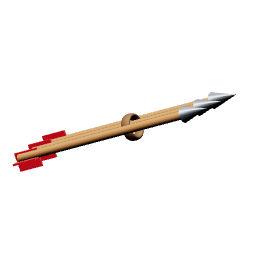
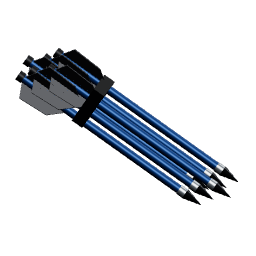
New pictures for herbs, spray, grenades, mines, bolts and explosive arrows
The old leaf stays the editor logo (icons/items/herb_logo.png).

Changed region(s): [[0.0312, 0.1875, 0.9375, 0.8125]]

diff --git a/scripts/icon-render/builders-extra.js b/scripts/icon-render/builders-extra.js
@@ -252,5 +252,129 @@ export function makeExtra(THREE) {
   };
   B.resources_s = bag('#2c3c63', [0x8a4a28, 0x6f3a22, 0xa0603a, 0x4a3024], 11); // blue sack, rusty scrap
   B.resources_l = bag('#7d5a3a', [0xaeb4ba, 0x787f86, 0xc9a24e, 0x55595e], 29); // brown sack, gears and brass
+  // ---------- herbs: bunches of feathery sprigs on thin stems, one bunch per herb of the mix
+  const herbModel = (colors) => () => {
+    const g = new THREE.Group(); let r = 5; const rnd = () => (r = (r * 16807) % 2147483647) / 2147483647;
+    const stemM = M(0x6e5a34, 0, 0.8);
+    const tube = (pts, rad, m, into) => { const c = new THREE.CatmullRomCurve3(pts.map((q) => new THREE.Vector3(...q))); add(into, new THREE.TubeGeometry(c, 24, rad, 7, false), m); return c; };
+    const leafShape = new THREE.Shape(); leafShape.moveTo(0, 0); leafShape.quadraticCurveTo(0.075, 0.1, 0, 0.3); leafShape.quadraticCurveTo(-0.075, 0.1, 0, 0);
+    const leafGeo = new THREE.ShapeGeometry(leafShape);
+    // one frond: a curved midrib with leaflets in pairs, smaller towards the tip
+    const frond = (into, from, dir, len, mats) => {
+      const d = new THREE.Vector3(...dir).normalize(), o = new THREE.Vector3(...from);
+      const mid = o.clone().addScaledVector(d, len * 0.5).add(new THREE.Vector3((rnd() - 0.5) * 0.25, 0.06, (rnd() - 0.5) * 0.25));
+      const end = o.clone().addScaledVector(d, len).add(new THREE.Vector3(d.x * 0.12, -0.12 * rnd(), 0));
+      const c = new THREE.CatmullRomCurve3([o, mid, end]); add(into, new THREE.TubeGeometry(c, 16, 0.014, 5, false), mats[0]);
+      const n = Math.round(len * 15);
+      for (let i = 1; i <= n; i++) {
+        const t = i / (n + 1), at = c.getPoint(t), tan = c.getTangent(t), size = (1 - t * 0.65) * (0.85 + rnd() * 0.3);
+        for (const side of [-1, 1]) {
+          const leaf = new THREE.Mesh(leafGeo, mats[1 + Math.floor(rnd() * (mats.length - 1))]);
+          const out = new THREE.Vector3(-tan.y, tan.x, 0).normalize().multiplyScalar(side).addScaledVector(tan, 0.75).add(new THREE.Vector3(0, 0, (rnd() - 0.5) * 0.7)).normalize();
+          leaf.position.copy(at); leaf.quaternion.setFromUnitVectors(new THREE.Vector3(0, 1, 0), out); leaf.scale.setScalar(size); into.add(leaf);
+        }
+      }
+    };
+    const shades = (hex) => [stemM, ...[1, 0.78, 1.2].map((k) => new THREE.MeshStandardMaterial({ color: new THREE.Color(hex).multiplyScalar(k), roughness: 0.75, metalness: 0, side: THREE.DoubleSide, emissive: new THREE.Color(hex).multiplyScalar(0.12) }))];
+    colors.forEach((hex, ci) => {
+      const bunch = new THREE.Group(); const lean = colors.length === 1 ? 0 : (ci - (colors.length - 1) / 2) * 0.62; const mats = shades(hex);
+      tube([[0, 0, 0], [0.03, 0.55, 0], [-0.02, 1.15, 0.02], [0.05, 1.75, 0]], 0.035, stemM, bunch);
+      frond(bunch, [0.05, 1.7, 0], [0.12, 1, 0], 0.95, mats);
+      for (let i = 0; i < 9; i++) { const y = 0.25 + i * 0.17, side = i % 2 ? 1 : -1; frond(bunch, [0, y, 0], [side * (0.5 + rnd() * 0.35), 0.75 + rnd() * 0.35, (rnd() - 0.5) * 0.6], 0.8 + rnd() * 0.5 - i * 0.02, mats); }
+      bunch.rotation.z = -lean; bunch.position.set(lean * 0.12, 0, ci * 0.08); g.add(bunch);
+    });
+    tube([[0, 0.02, 0], [0.1, -0.35, 0], [-0.08, -0.62, 0.03], [-0.34, -0.95, 0]], 0.028, M(0x7a5a38, 0, 0.9), g);
+    g.userData.view = [0.12, -0.15, -0.3]; return g;
+  };
+  const HG = 0x5f9448, HR = 0xb0392c, HY = 0xc9ae35;
+  Object.assign(B, {
+    herb_green: herbModel([HG]), herb_red: herbModel([HR]), herb_yellow: herbModel([HY]),
+    herb_gg: herbModel([HG, HG]), herb_ggg: herbModel([HG, HG, HG]), herb_gr: herbModel([HG, HR]), herb_gy: herbModel([HG, HY]), herb_ry: herbModel([HR, HY]),
+    herb_ggy: herbModel([HG, HY, HG]), herb_gry: herbModel([HG, HR, HY]),
+  });
+
+  // ---------- first aid spray: pale olive can with a white shoulder and nozzle, our own lettering
+  B.first_aid_spray = () => {
+    const g = new THREE.Group();
+    const wrap = canvasTex(1024, 640, (x) => {
+      x.fillStyle = '#9a9d80'; x.fillRect(0, 0, 1024, 640); x.fillStyle = '#b9bc9c'; x.fillRect(0, 96, 1024, 448);
+      x.fillStyle = '#4f6b2c'; x.fillRect(0, 96, 1024, 16); x.fillRect(0, 528, 1024, 16);
+      x.fillStyle = '#5d7a34'; x.fillRect(487, 140, 50, 150); x.fillRect(437, 190, 150, 50);
+      label(x, 'FIRST AID', 512, 368, 76, '#20241a', { align: 'center', max: 360 }); label(x, 'SPRAY', 512, 444, 60, '#20241a', { align: 'center' });
+      x.fillStyle = '#8c3b26'; x.beginPath(); x.arc(512, 496, 20, 0, 7); x.fill(); x.fillStyle = '#e8e4d0'; x.fillRect(508, 484, 8, 24); x.fillRect(500, 492, 24, 8);
+    });
+    const white = M(0xdedbcd, 0.15, 0.4), rim = M(0x9aa0a4, 0.85, 0.3);
+    add(g, new THREE.CylinderGeometry(0.62, 0.62, 2.3, 64, 1, true, Math.PI), printed(wrap), 0, 0, 0);
+    add(g, lathe([[0.63, 1.15], [0.66, 1.2], [0.6, 1.26], [0.55, 1.46], [0.36, 1.62], [0.14, 1.68], [0, 1.68]], 48), white);
+    add(g, new THREE.TorusGeometry(0.625, 0.045, 12, 64), rim, 0, 1.16, 0).rotation.x = Math.PI / 2;
+    add(g, new THREE.TorusGeometry(0.625, 0.06, 12, 64), rim, 0, -1.16, 0).rotation.x = Math.PI / 2;
+    cyl(g, 0.6, 0.1, rim, 0, -1.18, 0, 48); cyl(g, 0.1, 0.22, rim, 0, 1.76, 0); box(g, 0.34, 0.24, 0.24, M(0x6d7378, 0.7, 0.4), 0.03, 1.96, 0); cyl(g, 0.05, 0.14, dark, 0.23, 1.98, 0, 10).rotation.z = Math.PI / 2;
+    g.userData.view = [0.16, -0.12, 0.62]; return g;
+  };
+
+  // ---------- grenades: one shape, the colour tells the kind
+  const grenadeModel = (body, ink, lines) => () => {
+    const g = new THREE.Group(); const bodyM = M(body, 0.35, 0.55);
+    const print = canvasTex(1024, 512, (x) => {
+      x.fillStyle = '#' + body.toString(16).padStart(6, '0'); x.fillRect(0, 0, 1024, 512);
+      for (let i = 0, r = 3; i < 2600; i++) { r = (r * 16807) % 2147483647; const a = r / 2147483647; r = (r * 16807) % 2147483647; x.fillStyle = i % 2 ? 'rgba(0,0,0,.16)' : 'rgba(255,255,255,.06)'; x.fillRect(a * 1024, (r / 2147483647) * 512, 4, 4); }
+      lines.forEach((t, i) => label(x, t, 512, 120 + i * 78, i ? 48 : 54, ink, { align: 'center', max: 340 }));
+    });
+    add(g, new THREE.CylinderGeometry(0.72, 0.76, 1.5, 64, 1, true, Math.PI), printed(print), 0, 0, 0);
+    add(g, lathe([[0.76, -0.75], [0.72, -0.92], [0.55, -1.02], [0, -1.04]], 48), bodyM);
+    add(g, lathe([[0.72, 0.75], [0.62, 0.92], [0.42, 1.02], [0.34, 1.06], [0, 1.06]], 48), bodyM);
+    add(g, new THREE.TorusGeometry(0.765, 0.055, 12, 64), bodyM, 0, -0.5, 0).rotation.x = Math.PI / 2;
+    const metal = M(0xa9a58f, 0.75, 0.42);
+    cyl(g, 0.3, 0.2, metal, 0, 1.12, 0); box(g, 0.46, 0.34, 0.4, metal, 0, 1.38, 0); cyl(g, 0.09, 0.5, metal, 0, 1.38, 0, 12).rotation.x = Math.PI / 2;
+    const lever = new THREE.CatmullRomCurve3([[0.1, 1.56, 0], [0.55, 1.45, 0], [0.82, 0.8, 0], [0.86, -0.35, 0]].map((q) => new THREE.Vector3(...q)));
+    const strip = add(g, new THREE.TubeGeometry(lever, 30, 0.075, 8, false), metal); strip.scale.z = 2.2;
+    torus(g, 0.36, 0.035, M(0xc9ccd0, 0.9, 0.3), -0.22, 1.14, 0.42, 1.15, 0.2, 0);
+    sph(g, 0.09, metal, -0.34, 1.42, 0.1);
+    g.userData.view = [0.28, -0.04, 0.22]; return g;
+  };
+  B.grenade_hand = grenadeModel(0x3c4724, '#c9c7a6', ['HAND GRENADE', 'MK 2  LOT 30-32', 'FRAGMENTATION']);
+  B.grenade_flash = grenadeModel(0x243a6b, '#d3dcec', ['FLASH GRENADE', 'MK 1  LOT 30-32', 'ILLUMINATING']);
+  B.grenade_heavy = grenadeModel(0x6e2019, '#ecd6c8', ['HEAVY GRENADE', 'MK 3  LOT 30-32', 'HIGH EXPLOSIVE']);
+
+  // ---------- mines: a cardboard tray with two rows of cups
+  B.mine = () => {
+    const g = new THREE.Group(); const shell = M(0x3f5566, 0.55, 0.45), glow = M(0xd87a14, 0.25, 0.35, { emissive: 0x5a2c00 }), card = M(0x6b4526, 0, 0.85);
+    box(g, 4.6, 0.08, 2.0, card, 0, 0, 0); box(g, 4.62, 0.025, 2.02, M(0x8a5e36, 0, 0.85), 0, 0.045, 0);
+    for (let i = 0; i < 5; i++) for (let j = 0; j < 2; j++) {
+      const x = -1.76 + i * 0.88, z = -0.48 + j * 0.96;
+      add(g, lathe([[0, -0.72], [0.26, -0.72], [0.34, -0.55], [0.3, -0.4], [0.34, -0.2], [0.34, 0]], 32), shell, x, 0, z);
+      add(g, new THREE.CylinderGeometry(0.34, 0.37, 0.4, 32, 1, true), shell, x, 0.24, z);
+      cyl(g, 0.27, 0.06, glow, x, 0.34, z, 32);
+      add(g, new THREE.TorusGeometry(0.3, 0.05, 8, 32), shell, x, 0.4, z).rotation.x = Math.PI / 2;
+      for (let t = 0; t < 4; t++) { const a = t * Math.PI / 2 + Math.PI / 4; box(g, 0.22, 0.22, 0.11, shell, x + Math.cos(a) * 0.31, 0.47, z + Math.sin(a) * 0.31).rotation.y = -a + Math.PI / 2; }
+    }
+    g.userData.view = [0.62, -0.45, 0.14]; return g;
+  };
+
+  // ---------- bolts: blue shafts, black points and vanes; explosive arrows: red-vaned arrows in a black quiver
+  const arrow = (shaft, vane, len) => {
+    const a = new THREE.Group();
+    cyl(a, 0.07, len, shaft, 0, 0, 0, 20).rotation.z = Math.PI / 2;
+    add(a, new THREE.ConeGeometry(0.085, 0.32, 20), M(0x2a2d31, 0.85, 0.3), len / 2 + 0.16, 0, 0).rotation.z = -Math.PI / 2;
+    cyl(a, 0.082, 0.12, M(0xb9c0c6, 0.9, 0.25), len / 2 - 0.06, 0, 0, 20).rotation.z = Math.PI / 2;
+    for (let i = 0; i < 3; i++) { const fin = extrude([[0, 0.05], [0.12, 0.3], [0.62, 0.27], [0.85, 0.05]], 0.012, vane, 0.004); fin.position.x = -len / 2 + 0.06; const holder = new THREE.Group(); holder.add(fin); holder.rotation.x = i * Math.PI * 2 / 3 + 0.3; a.add(holder); }
+    cyl(a, 0.085, 0.1, black, -len / 2, 0, 0, 20).rotation.z = Math.PI / 2;
+    return a;
+  };
+  B.bolts = () => {
+    const g = new THREE.Group(); const blue = M(0x24497a, 0.7, 0.34), vane = M(0x25272b, 0.2, 0.6, { side: THREE.DoubleSide });
+    [[0.2, 0.2, 0], [0, 0, 0.02], [-0.2, -0.2, 0.04], [0.08, 0.2, 0.34], [-0.12, 0, 0.36], [-0.32, -0.2, 0.38]].forEach(([y, x, z], i) => place(g, arrow(blue, vane, 3.2), x * 0.8 + (i % 2) * 0.05, y, z));
+    box(g, 0.2, 0.7, 0.58, black, -0.55, -0.02, 0.2);
+    g.userData.view = [0.42, -0.3, -0.55]; return g;
+  };
+  B.arrows_explosive = () => {
+    const g = new THREE.Group(); const case_ = M(0x2b2d2e, 0.25, 0.6), red = M(0xa51f1a, 0.15, 0.5, { side: THREE.DoubleSide }), shaft = M(0x1d1f22, 0.7, 0.4);
+    cyl(g, 0.34, 2.7, case_, -0.35, 0, 0, 40).rotation.z = Math.PI / 2;
+    [-1.68, -0.55, 0.45, 0.98].forEach((x) => cyl(g, 0.37, 0.09, M(0x3b3e40, 0.35, 0.55), x, 0, 0, 40).rotation.z = Math.PI / 2);
+    [-0.12, 0.12].forEach((y) => sph(g, 0.055, brass, 0.78, y, 0.34));
+    torus(g, 0.17, 0.035, M(0x1a1c1e, 0.7, 0.4), 0.35, -0.46, 0);
+    [[0.14, 0.1, 0], [-0.12, -0.08, 0.12], [0.02, 0.3, -0.12]].forEach(([y, dx, z]) => { const a = arrow(shaft, red, 1.7); a.rotation.y = Math.PI; place(g, a, 1.35 + dx, y, z, 0, Math.PI, y * 0.35); });
+    g.userData.view = [0.3, -0.3, 2.42]; return g;
+  };
   return B;
 }

diff --git a/scripts/make-readme-art.js b/scripts/make-readme-art.js
@@ -24,7 +24,7 @@ body{width:1280px;height:320px;display:flex;align-items:center;padding:0 48px;ga
 .pill{padding:6px 16px;border-radius:20px;font-size:18px;font-weight:700;border:2px solid}
 .g{color:#a9c58a;border-color:#a9c58a}.y{color:#f0d472;border-color:#f0d472}.r{color:#e0746a;border-color:#e0746a}
 .icons{display:grid;grid-template-columns:repeat(4,120px);gap:6px}.icons div{background:rgba(169,197,138,.1);border:1px solid rgba(169,197,138,.3);border-radius:8px;padding:4px}
-</style><body>${img('herb_green', 150)}<div class="t"><h1>RE4 <span>SAVE EDITOR</span></h1><p>Unofficial local save editor for Resident Evil 4 (2023), Steam, Windows</p>
+</style><body>${img('herb_logo', 150)}<div class="t"><h1>RE4 <span>SAVE EDITOR</span></h1><p>Unofficial local save editor for Resident Evil 4 (2023), Steam, Windows</p>
 <div class="s"><span class="pill g">Case view</span><span class="pill y">Drag &amp; sort</span><span class="pill r">Safe backups</span></div></div>
 <div class="icons">${['first_aid_spray', 'ammo_handgun', 'crown', 'gem_ruby', 'chalice', 'mask', 'key_gold', 'case_gold'].map((n) => `<div>${img(n, 110)}</div>`).join('')}</div>`;
 
@@ -54,15 +54,15 @@ const shot = (name, html, w, h) => {
 const button = (label, sub, color, bg, icon) => `<!doctype html><meta charset="utf-8"><style>${css}
 body{width:360px;height:76px;display:flex;align-items:center;gap:14px;padding:0 20px;background:${bg};border:3px solid ${color}}
 .l{font-size:25px;font-weight:800;color:${color};letter-spacing:1px;line-height:1.1}.s{font-size:14px;color:#cfd9c1;margin-top:3px}</style><body>${icon}<div><div class="l">${label}</div><div class="s">${sub}</div></div>`;
-shot('btn-github', button('DOWNLOAD', 'from GitHub Releases (Windows)', '#a9c58a', '#1d2a17', img('herb_green', 46)), 360, 76);
+shot('btn-github', button('DOWNLOAD', 'from GitHub Releases (Windows)', '#a9c58a', '#1d2a17', img('herb_logo', 46)), 360, 76);
 shot('btn-nexus', button('DOWNLOAD', 'from Nexus Mods', '#e8a24a', '#2a2114', img('case_gold', 46)), 360, 76);
 // minimal header and cover for the Nexus Mods page: one icon, the name and one line
 const nexusHeader = `<!doctype html><meta charset="utf-8"><style>${css}
 body{width:1600px;height:400px;display:flex;align-items:center;justify-content:center;gap:56px;border-bottom:5px solid #c9a24a}
-h1{margin:0;font-size:104px;letter-spacing:12px;color:#a9c58a;font-weight:800;line-height:1}h1 span{color:#c9a24a}p{margin:18px 0 0;font-size:34px;color:#cfd9c1;letter-spacing:1px}</style><body>${img('herb_green', 250)}<div><h1>RE4 <span>SAVE EDITOR</span></h1><p>Unofficial save editor for Resident Evil 4 (2023)</p></div>`;
+h1{margin:0;font-size:104px;letter-spacing:12px;color:#a9c58a;font-weight:800;line-height:1}h1 span{color:#c9a24a}p{margin:18px 0 0;font-size:34px;color:#cfd9c1;letter-spacing:1px}</style><body>${img('herb_logo', 250)}<div><h1>RE4 <span>SAVE EDITOR</span></h1><p>Unofficial save editor for Resident Evil 4 (2023)</p></div>`;
 const nexusCover = `<!doctype html><meta charset="utf-8"><style>${css}
 body{width:1920px;height:1080px;display:flex;flex-direction:column;align-items:center;justify-content:center;gap:44px;text-align:center}
-h1{margin:0;font-size:150px;letter-spacing:18px;color:#a9c58a;font-weight:800;line-height:1}h1 span{color:#c9a24a}p{margin:0;font-size:44px;color:#cfd9c1;letter-spacing:2px}.bar{width:520px;height:5px;background:#c9a24a;margin:30px auto 0}</style><body>${img('herb_green', 420)}<div><h1>RE4 <span>SAVE EDITOR</span></h1><div class="bar"></div></div><p>Unofficial save editor for Resident Evil 4 (2023)</p>`;
+h1{margin:0;font-size:150px;letter-spacing:18px;color:#a9c58a;font-weight:800;line-height:1}h1 span{color:#c9a24a}p{margin:0;font-size:44px;color:#cfd9c1;letter-spacing:2px}.bar{width:520px;height:5px;background:#c9a24a;margin:30px auto 0}</style><body>${img('herb_logo', 420)}<div><h1>RE4 <span>SAVE EDITOR</span></h1><div class="bar"></div></div><p>Unofficial save editor for Resident Evil 4 (2023)</p>`;
 shot('nexus-header', nexusHeader, 1600, 400);
 shot('nexus-cover', nexusCover, 1920, 1080);
 shot('banner', banner, 1280, 320);

diff --git a/app/public/index.html b/app/public/index.html
@@ -4,7 +4,7 @@
 <meta charset="utf-8">
 <meta name="viewport" content="width=device-width, initial-scale=1">
 <title>RE4 Save Editor</title>
-<link rel="icon" type="image/png" href="icons/items/herb_green.png">
+<link rel="icon" type="image/png" href="icons/items/herb_logo.png">
 <style>
 /* Theme: survival-horror olive / herb green with brass accents (original palette, no game assets) */
 :root{
@@ -183,7 +183,7 @@ div.ghost{position:absolute;pointer-events:none;border:2px dashed;z-index:5;box-
 <link rel="stylesheet" href="fx.css">
 </head>
 <body>
-<div id="splash" aria-hidden="true"><div class="sp-box"><img class="sp-herb" src="icons/items/herb_green.png" alt=""><div class="sp-name">RE4 <b>Save Editor</b></div><div class="sp-line"><i></i></div></div></div>
+<div id="splash" aria-hidden="true"><div class="sp-box"><img class="sp-herb" src="icons/items/herb_logo.png" alt=""><div class="sp-name">RE4 <b>Save Editor</b></div><div class="sp-line"><i></i></div></div></div>
 <header>
   <h1><span class="brand" data-ic="leaf"></span><span>RE4 <b>Save Editor</b></span></h1>
   <select id="slot" title="Save file"></select>

diff --git a/scripts/make-icon.js b/scripts/make-icon.js
@@ -1,14 +1,14 @@
 'use strict';
 // Builds app/icon.ico (the icon of the desktop shortcut) from the 3D herb: renders it at several sizes with scripts/icon-render and
 // packs the PNGs into one .ico (PNG-compressed entries, Windows Vista and later). Dev tool, needs internet and Edge/Chrome.
-// Usage: node scripts/make-icon.js [item]      (default item: herb_green)
+// Usage: node scripts/make-icon.js [item]      (default item: herb_logo)
 const fs = require('fs');
 const os = require('os');
 const path = require('path');
 const { spawnSync } = require('child_process');
 
 const ROOT = path.resolve(__dirname, '..');
-const item = process.argv[2] || 'herb_green';
+const item = process.argv[2] || 'herb_logo';
 const sizes = [16, 24, 32, 48, 64, 128, 256];
 const tmp = fs.mkdtempSync(path.join(os.tmpdir(), 're4ico-'));
 const pngs = sizes.map((s) => {

diff --git a/scripts/icon-render/procedural.html b/scripts/icon-render/procedural.html
@@ -137,6 +137,7 @@ function bar() {
   const o = add(g, geo, mat.gold); o.scale.set(1.7, 1, 0.9); return g;
 }
 const B = {
+  herb_logo: () => herb([0x1f6e2a]), // the editor logo (splash screen, shortcut icon, README art); the item herbs are in builders-extra.js
   herb_green: () => herb([0x1f6e2a]), herb_red: () => herb([0x9a1d18]), herb_yellow: () => herb([0xb09418]),
   herb_gg: () => herb([0x1f6e2a, 0x1f6e2a]), herb_ggg: () => herb([0x1f6e2a, 0x1f6e2a, 0x1f6e2a]), herb_gr: () => herb([0x1f6e2a, 0x9a1d18]), herb_gy: () => herb([0x1f6e2a, 0xb09418]),
   herb_ry: () => herb([0x9a1d18, 0xb09418]), herb_ggy: () => herb([0x1f6e2a, 0x1f6e2a, 0xb09418]), herb_gry: () => herb([0x1f6e2a, 0x9a1d18, 0xb09418]),

diff --git a/CHANGELOG.md b/CHANGELOG.md
@@ -1,6 +1,7 @@
 # Changelog
 
 ## Unreleased (for 0.9.5)
+- New pictures for the herbs and their mixes (bunches of feathery leaves), the first aid spray, the three grenades (one shape, green, blue and red), the mines, the bolts and the explosive arrows. The leaf stays the logo of the editor.
 - New pictures for the ammunition boxes (a colour for every kind), the gunpowder tin and the two bags of resources, closer to how they look in the game.
 - The Inventory lists show the picture of every item and weapon instead of the category sign.
 - **Undo** (button and Ctrl+Z): takes back the last changes one by one, up to 30.
